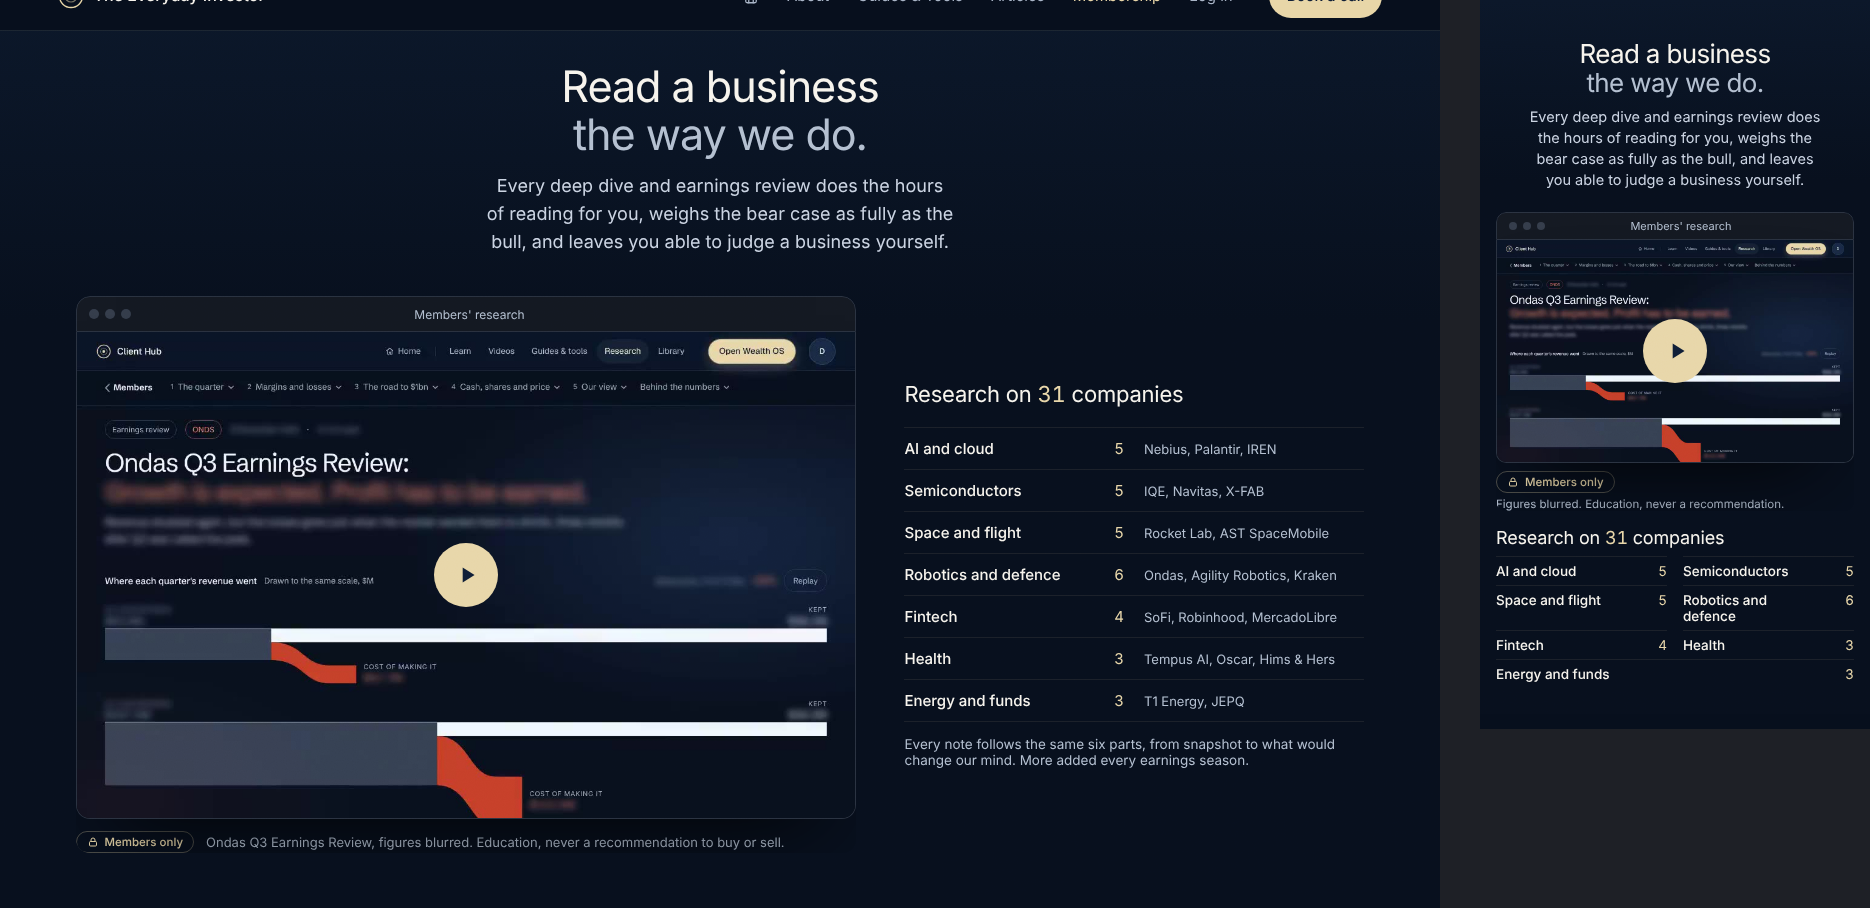
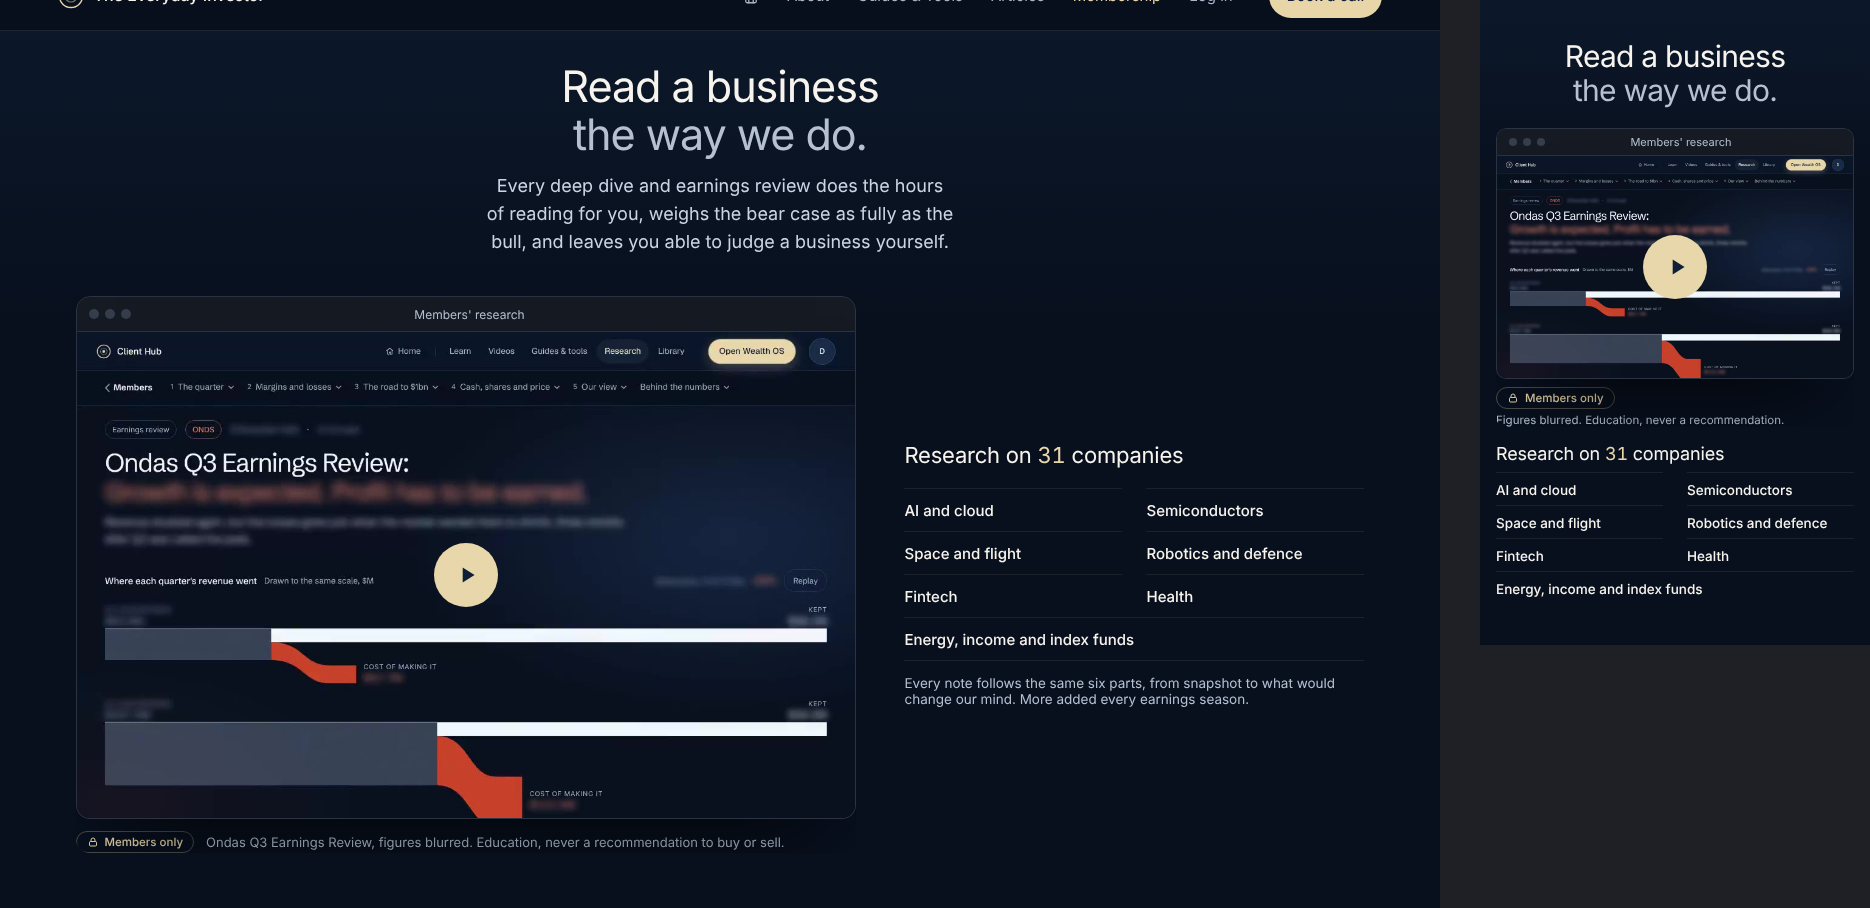
Membership mock: research themes without names or counts
Claude-Session: https://claude.ai/code/session_015wx5T2UNnK6UZJXUcDhYM1

diff --git a/mock/membership/index.html b/mock/membership/index.html
@@ -163,13 +163,13 @@
 <div class="mm-cov" id="mm-notes">
 <h3 class="mm-cov-h">Research on <span class="g-num">31</span> companies</h3>
 <ul class="mm-th">
-<li><span class="mm-th-t">AI and cloud</span><span class="mm-th-n g-num">5</span><span class="mm-th-e">Nebius, Palantir, IREN</span></li>
-<li><span class="mm-th-t">Semiconductors</span><span class="mm-th-n g-num">5</span><span class="mm-th-e">IQE, Navitas, X-FAB</span></li>
-<li><span class="mm-th-t">Space and flight</span><span class="mm-th-n g-num">5</span><span class="mm-th-e">Rocket Lab, AST SpaceMobile</span></li>
-<li><span class="mm-th-t">Robotics and defence</span><span class="mm-th-n g-num">6</span><span class="mm-th-e">Ondas, Agility Robotics, Kraken</span></li>
-<li><span class="mm-th-t">Fintech</span><span class="mm-th-n g-num">4</span><span class="mm-th-e">SoFi, Robinhood, MercadoLibre</span></li>
-<li><span class="mm-th-t">Health</span><span class="mm-th-n g-num">3</span><span class="mm-th-e">Tempus AI, Oscar, Hims &amp; Hers</span></li>
-<li><span class="mm-th-t">Energy and funds</span><span class="mm-th-n g-num">3</span><span class="mm-th-e">T1 Energy, JEPQ</span></li>
+<li><span class="mm-th-t">AI and cloud</span></li>
+<li><span class="mm-th-t">Semiconductors</span></li>
+<li><span class="mm-th-t">Space and flight</span></li>
+<li><span class="mm-th-t">Robotics and defence</span></li>
+<li><span class="mm-th-t">Fintech</span></li>
+<li><span class="mm-th-t">Health</span></li>
+<li><span class="mm-th-t">Energy, income and index funds</span></li>
 </ul>
 <p class="mm-cov-more">Every note follows the same six parts, from snapshot to what would change our mind. More added every earnings season.</p>
 </div>

diff --git a/mock/membership/mock.css b/mock/membership/mock.css
@@ -998,3 +998,9 @@ body.mm-member .mm-ct th[data-k="mom"] .mm-yours { display: inline-block; }
   .mm-win-v { max-width: min(100%, calc((var(--mm-avail) - 370px) * 1.5)); }
 }
 @media (max-width: 860px) { .mm-phone-chat { --pw: min(70vw, calc((var(--mm-avail) - 230px) * .48), 320px); } }
+/* Research themes, vaguer (pass 4): theme names only, two to a row. */
+.mm-th { display: grid; grid-template-columns: repeat(2, minmax(0, 1fr)); column-gap: 24px; }
+.mm-th li { display: block; }
+.mm-th li:last-child:nth-child(odd) { grid-column: 1 / -1; }
+.mm-th li:nth-last-child(2):nth-child(odd) { border-bottom: 1px solid var(--g-line-soft); }
+@media (max-width: 860px) { .mm-th li:nth-last-child(2):nth-child(odd) { border-bottom: 0; } }
